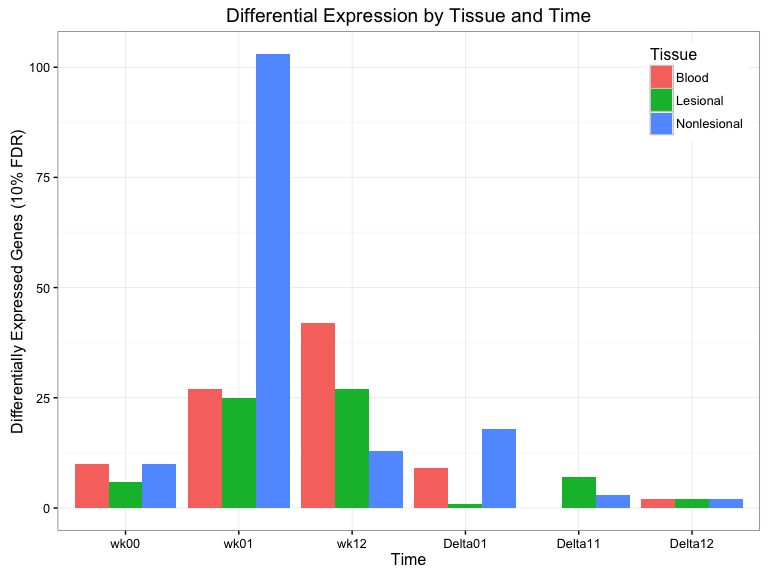
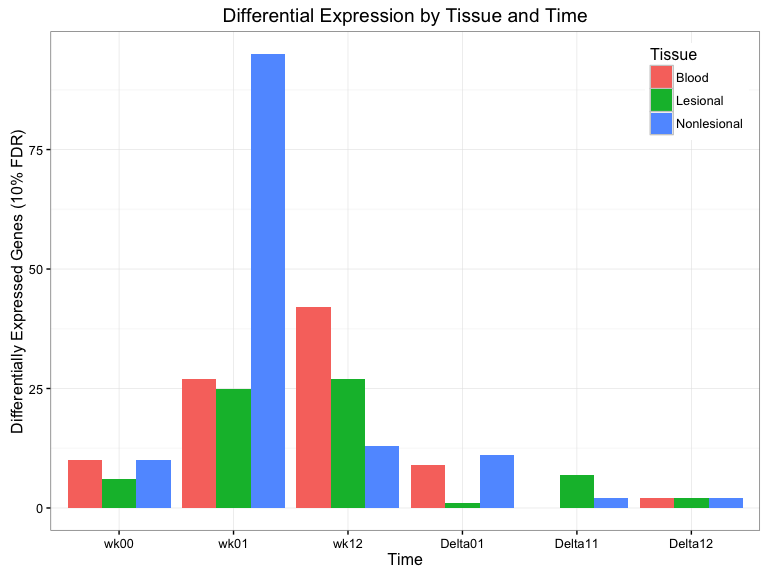
fdr fallout

diff --git a/Scripts/Response_Script.md b/Scripts/Response_Script.md
@@ -36,8 +36,7 @@ Following RNA-seqencing of all samples, reads were pseudo-aligned using kallisto
 ``` r
 # Load data
 pheno <- fread('./Data/Clinical.csv') %>%
-  mutate(Subject.Tissue = paste(Subject, Tissue, sep = '.')) %>%
-  data.table()
+  mutate(Subject.Tissue = paste(Subject, Tissue, sep = '.'))
 t2g <- fread('./Data/Ensembl.Hs79.Tx.csv')
 e2g <- fread('./Data/Ensembl.Hs79.GeneSymbols.csv')
 files <- file.path('./Data/RawCounts', pheno$Sample, 'abundance.tsv')
@@ -55,7 +54,14 @@ Before conducting EDA or differential expression analysis, we remove genes with 
 keep <- rowSums(cpm(txi$counts) > 1) >= 9
 y <- DGEList(txi$counts[keep, ])
 y <- calcNormFactors(y)
+
+# Check dimensnionality
+dim(y)
 ```
+
+    ## [1] 19304    89
+
+The analysis will proceed with 19,304 genes.
 
 To get a quick sense for the clinical data, we create a scatterplot of baseline PASI vs. delta PASI.
 
@@ -72,9 +78,7 @@ ggplot(df, aes(PASI_wk00, DeltaPASI, label = Subject)) +
   theme_bw()
 ```
 
-<p align='center'>
 <img src="Response_Script_files/figure-markdown_github/clin-1.png" style="display: block; margin: auto;" />
-</p>
 
 We find here that subject 9, the only patient who got worse over the course of treatment, is an outlier. Their delta PASI score singlehandedly creates the impression of a relationship between baseline and outcome statistics.
 
@@ -104,12 +108,9 @@ winsorise <- function(x, multiple = 2) {
 }
 
 # Check to see which patient outcomes are changed by Winsorisation
-df <- pheno %>%
+(df <- pheno %>%
   distinct(Subject, DeltaPASI) %>%
-  mutate(Winsorised = winsorise(DeltaPASI)) %>%
-  data.table()
-
-df
+  mutate(Winsorised = winsorise(DeltaPASI)))
 ```
 
 | Subject |   DeltaPASI|  Winsorised|
@@ -128,7 +129,10 @@ df
 This confirms that only subject 9 meets our winsorisation threshold. We can now change the data prior to modeling.
 
 ``` r
-pheno[Subject == 'S09', DeltaPASI := df[Subject == 'S09', Winsorised]]
+pheno$DeltaPASI[pheno$Subject == 'S09'] <- df %>%
+  filter(Subject == 'S09') %>%
+  select(Winsorised) %>%
+  as.numeric()
 ```
 
 Exploratory Data Analysis
@@ -150,9 +154,7 @@ We begin by examining the data's mean-variance trend, as the shape of this curve
 plot_mean_var(mat, type = 'RNA-seq')
 ```
 
-<p align='center'>
 <img src="Response_Script_files/figure-markdown_github/meanvar-1.png" style="display: block; margin: auto;" />
-</p>
 
 This plot looks about right for these data.
 
@@ -165,9 +167,7 @@ While a mean-variance plot tells us something about the distribution of counts b
 plot_density(mat, group = pheno$Tissue, type = 'RNA-seq')
 ```
 
-<p align='center'>
 <img src="Response_Script_files/figure-markdown_github/dens-1.png" style="display: block; margin: auto;" />
-</p>
 
 We find here that blood samples take a unique shape, while skin samples are generally more alike. Still, nonlesional tissue appears to have a slightly higher peak than lesional tissue. There are no clear outliers in this figure, but we cannot make a conclusive judgment about this without further exploration.
 
@@ -180,9 +180,7 @@ We build a sample similarity matrix by calculating the pairwise Euclidean distan
 plot_sim_mat(mat, group = pheno$Tissue)
 ```
 
-<p align='center'>
 <img src="Response_Script_files/figure-markdown_github/sim_mat-1.png" style="display: block; margin: auto;" />
-</p>
 
 The dendrogram has perfectly separated blood from skin samples, although three from the latter group are misclassified between lesional and nonlesional tissue. Interestingly, each of these misclassifications comes from week 12, which suggests that positive response to treatment for these patients may have clouded the genetic distinction between lesional and nonlesional tissue over the course of the study.
 
@@ -195,9 +193,7 @@ One final, popular method for visualising the variance of a high-dimensional dat
 plot_pca(mat, group = pheno$Tissue)
 ```
 
-<p align='center'>
 <img src="Response_Script_files/figure-markdown_github/pca-1.png" style="display: block; margin: auto;" />
-</p>
 
 This plot represents perhaps the clearest possible summary of the findings from the last few figures. The first principle component, which captures nearly 60% of the variance in these data, perfectly separates blood from skin samples. The second principle component, which accounts for a little over 9% of the data variance, separates lesional from nonlesional tissue, albeit with some slight overlap at the fringes.
 
@@ -214,7 +210,7 @@ Differences Across Subjects
 ``` r
 # Build design matrix
 des <- model.matrix(~ 0 + Tissue:Time + Tissue:Time:DeltaPASI, data = pheno)
-colnames(des)[10:18] <- c(paste(rep(unique(pheno$Tissue), times = 3),
+colnames(des)[10:18] <- c(paste(unique(pheno$Tissue),
                                 rep(unique(pheno$Time), each = 3),
                                 'Response', sep = '.'))
 ```
@@ -245,9 +241,7 @@ ggplot(df, aes(Sample, Weight, fill = Tissue)) +
   theme(legend.justification = c(1, 1), legend.position = c(1, 1))
 ```
 
-<p align='center'>
 <img src="Response_Script_files/figure-markdown_github/wts-1.png" style="display: block; margin: auto;" />
-</p>
 
 Library quality does seem to vary across samples, but it's not entirely clear whether that's a function of tissue, time, the interaction between them, or perhaps even subject. To find out, we run a series of *F*-tests. The first three are repeated measures ANOVAs, the latter a simple one-way ANOVA. (Technically, we should remove subject 11 from the repeated measures ANOVAs since this patient's week 12 lesional sample is NA; in practice, it makes no difference here.)
 
@@ -325,7 +319,7 @@ That value seems plausible, and confirms that we are right to use this approach.
 
 ### Genewise Regressions
 
-With all these pieces in place, all that's left to do is fit the genewise regressions. We write a custom function to export results, which modifies `limma`'s default `topTable` output by replacing the classic [Benjamini-Hochberg FDR](https://www.jstor.org/stable/2346101) with [Storey's *q*-values](http://people.eecs.berkeley.edu/~jordan/sail/readings/storey-annals-05.pdf), offering greater power for measuring [genomewide significance](http://www.pnas.org/content/100/16/9440.full). We also rename and reshuffle columns for a clean, consistent output.
+With all these pieces in place, all that's left to do is fit the genewise regressions. We write a custom function to export results.
 
 ``` r
 res <- function(contrast) {
@@ -336,7 +330,7 @@ res <- function(contrast) {
     rename(EnsemblID  = gene_id,
            GeneSymbol = gene_name,
            p.value    = P.Value,
-           q.value    = adj.P.Value,
+           q.value    = adj.P.Val,
            AvgExpr    = AveExpr) %>%
     arrange(p.value) %>%
     select(EnsemblID, GeneSymbol, AvgExpr, logFC, p.value, q.value) %>%
@@ -425,16 +419,16 @@ df
 | Nonlesional | wk00    |       10|
 | Blood       | wk01    |       27|
 | Lesional    | wk01    |       25|
-| Nonlesional | wk01    |      103|
+| Nonlesional | wk01    |       95|
 | Blood       | wk12    |       42|
 | Lesional    | wk12    |       27|
 | Nonlesional | wk12    |       13|
 | Blood       | Delta01 |        9|
 | Lesional    | Delta01 |        1|
-| Nonlesional | Delta01 |       18|
+| Nonlesional | Delta01 |       11|
 | Blood       | Delta11 |        0|
 | Lesional    | Delta11 |        7|
-| Nonlesional | Delta11 |        3|
+| Nonlesional | Delta11 |        2|
 | Blood       | Delta12 |        2|
 | Lesional    | Delta12 |        2|
 | Nonlesional | Delta12 |        2|
@@ -450,9 +444,7 @@ ggplot(df, aes(Time, DEgenes, fill = Tissue)) +
   theme(legend.justification = c(1, 1), legend.position = c(1, 1))
 ```
 
-<p align='center'>
 <img src="Response_Script_files/figure-markdown_github/resbar-1.png" style="display: block; margin: auto;" />
-</p>
 
 The single most differentially expressed contrast in these data is nonlesional skin at week 1. No tissue type is especially predictive of response at baseline, although blod and nonlesional skin seem to be tied in this regard. The poor performance of nonlesional skin across the board is a somewhat surprising and unwelcome result.
 
@@ -468,16 +460,16 @@ head(top, 10)
 
 | EnsemblID       | GeneSymbol |     AvgExpr|       logFC|  p.value|    q.value|
 |:----------------|:-----------|-----------:|-----------:|--------:|----------:|
-| ENSG00000206501 | PPP1R11    |  -2.0135774|  -17.394123|    0e+00|  0.0000589|
-| ENSG00000224859 | ZNRD1      |  -2.8749890|   23.555889|    0e+00|  0.0000589|
-| ENSG00000227171 | RNF39      |  -3.5978248|   23.766403|    0e+00|  0.0000766|
-| ENSG00000230230 | TRIM26     |  -1.8997054|   23.258520|    0e+00|  0.0000904|
-| ENSG00000206455 | TCF19      |  -1.7684004|  -16.478593|    1e-07|  0.0002310|
-| ENSG00000234674 | TCF19      |  -1.7684004|  -16.478593|    1e-07|  0.0002310|
-| ENSG00000140465 | CYP1A1     |  -2.0158000|  -12.348735|    1e-07|  0.0002310|
-| ENSG00000231679 | HLA-DRB3   |  -1.8289025|   29.692425|    1e-07|  0.0002310|
-| ENSG00000150667 | FSIP1      |  -0.3325605|   -9.155531|    4e-07|  0.0007032|
-| ENSG00000233841 | HLA-C      |   1.9860928|   26.738430|    5e-07|  0.0008929|
+| ENSG00000206501 | PPP1R11    |  -2.0135774|  -17.394123|    0e+00|  0.0000662|
+| ENSG00000224859 | ZNRD1      |  -2.8749890|   23.555889|    0e+00|  0.0000662|
+| ENSG00000227171 | RNF39      |  -3.5978248|   23.766403|    0e+00|  0.0000862|
+| ENSG00000230230 | TRIM26     |  -1.8997054|   23.258520|    0e+00|  0.0001016|
+| ENSG00000206455 | TCF19      |  -1.7684004|  -16.478593|    1e-07|  0.0002597|
+| ENSG00000234674 | TCF19      |  -1.7684004|  -16.478593|    1e-07|  0.0002597|
+| ENSG00000140465 | CYP1A1     |  -2.0158000|  -12.348735|    1e-07|  0.0002597|
+| ENSG00000231679 | HLA-DRB3   |  -1.8289025|   29.692425|    1e-07|  0.0002597|
+| ENSG00000150667 | FSIP1      |  -0.3325605|   -9.155531|    4e-07|  0.0007905|
+| ENSG00000233841 | HLA-C      |   1.9860928|   26.738430|    5e-07|  0.0010038|
 
 It will be interesting to see if pathway analysis confirms a strong TNF and/or IFN signal in these data.
 
@@ -487,9 +479,7 @@ Let's quickly check that *p*-values are well-behaved.
 qq(top$p.value, pch = 16, cex = 0.25, main = 'QQ Plot: \n Nonlesional Skin, Week 1')
 ```
 
-<p align='center'>
 <img src="Response_Script_files/figure-markdown_github/qq-1.png" style="display: block; margin: auto;" />
-</p>
 
 The observed *p*-values begin to deviate from their expected distribution under the null hypothesis very early in this plot, suggesting some covariance structure in the data that has not been adequately captured by our model.
 
@@ -500,9 +490,7 @@ plot_md(top, fdr = 0.1,
         main = 'Differential Expression by Drug Response: \n Nonlesional Skin, Baseline')
 ```
 
-<p align='center'>
 <img src="Response_Script_files/figure-markdown_github/md-1.png" style="display: block; margin: auto;" />
-</p>
 
 This figure looks reasonable, although it appears there may be more up-regulation than down-regulation in this contrast. A volcano plot will help test this assumption.
 
@@ -511,9 +499,7 @@ plot_volcano(top, fdr = 0.1,
              main = 'Differential Expression by Drug Response: \n Lesional Skin, Baseline')
 ```
 
-<p align='center'>
 <img src="Response_Script_files/figure-markdown_github/volc-1.png" style="display: block; margin: auto;" />
-</p>
 
 The plot is a little right-shifted, indicating more up- than down-regulation among genes in this contrast, but the difference is not particularly extreme.
 
@@ -542,8 +528,6 @@ aheatmap(deg, distfun = 'pearson', scale = 'row', col = rb,
          annCol = list(DeltaPASI = pheno$DeltaPASI[grep('Nonlesional.wk00', pheno$Sample)]))
 ```
 
-<p align='center'>
 <img src="Response_Script_files/figure-markdown_github/heatmap-1.png" style="display: block; margin: auto;" />
-</p>
 
 The sample-wise clustering in this heatmap makes some sense. Patients are seemingly stratified into strong, medium, and non-responders. The gene-wise clustering, however, is a little harder to parse out. Expression values for each gene vary considerably across libraries, with only a few instances of clear blocks emerging from the data. That could be a byproduct of the relatively low dimensionality in this case - just 46 genes observed across 10 samples. We'll continue with bigger matrices in later analyses.
